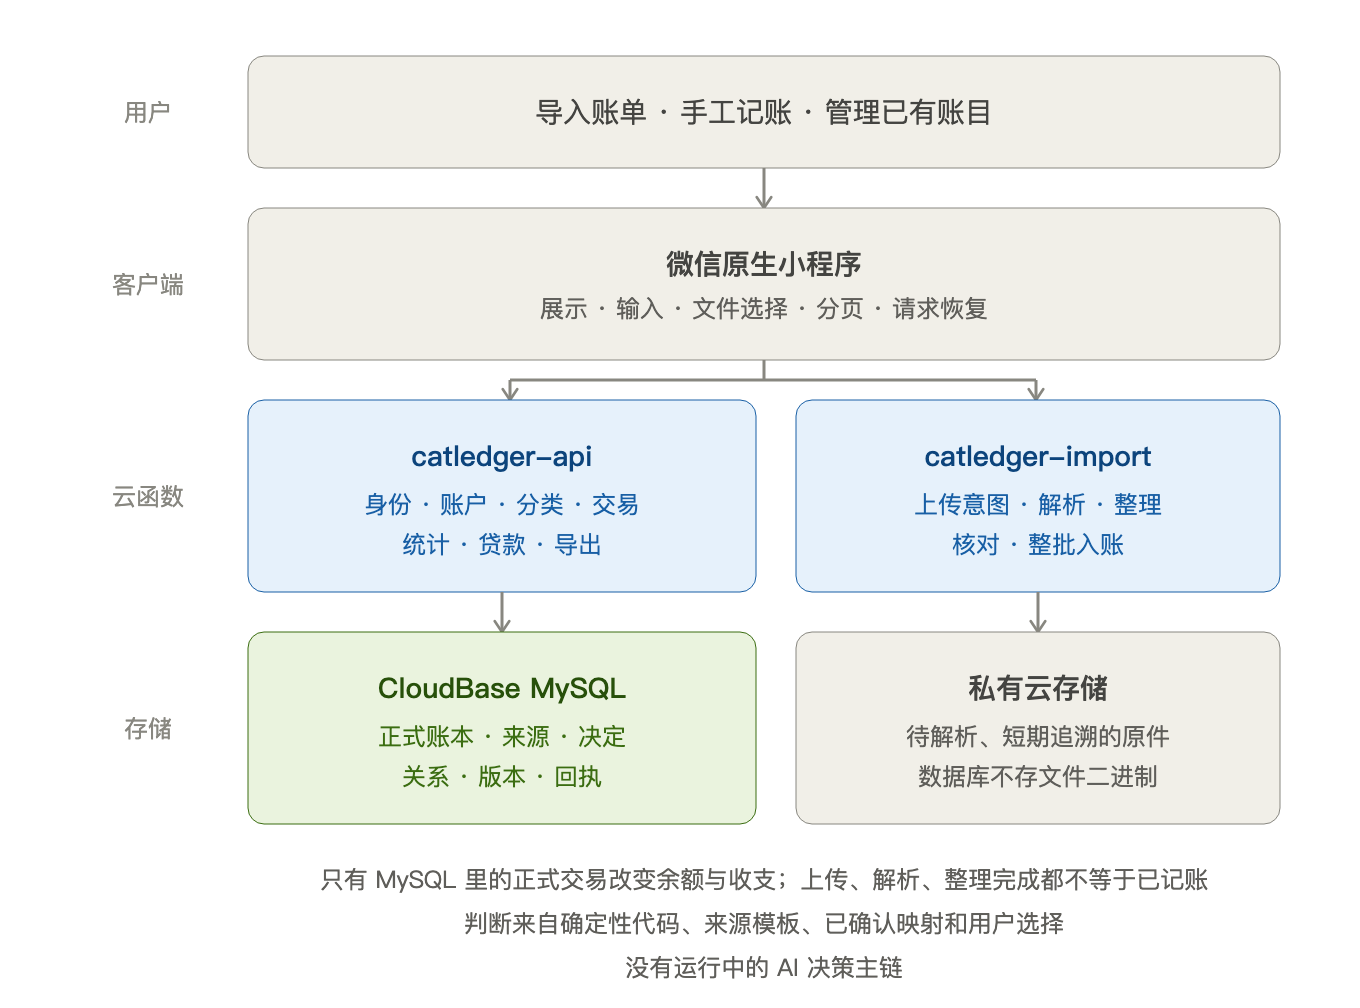
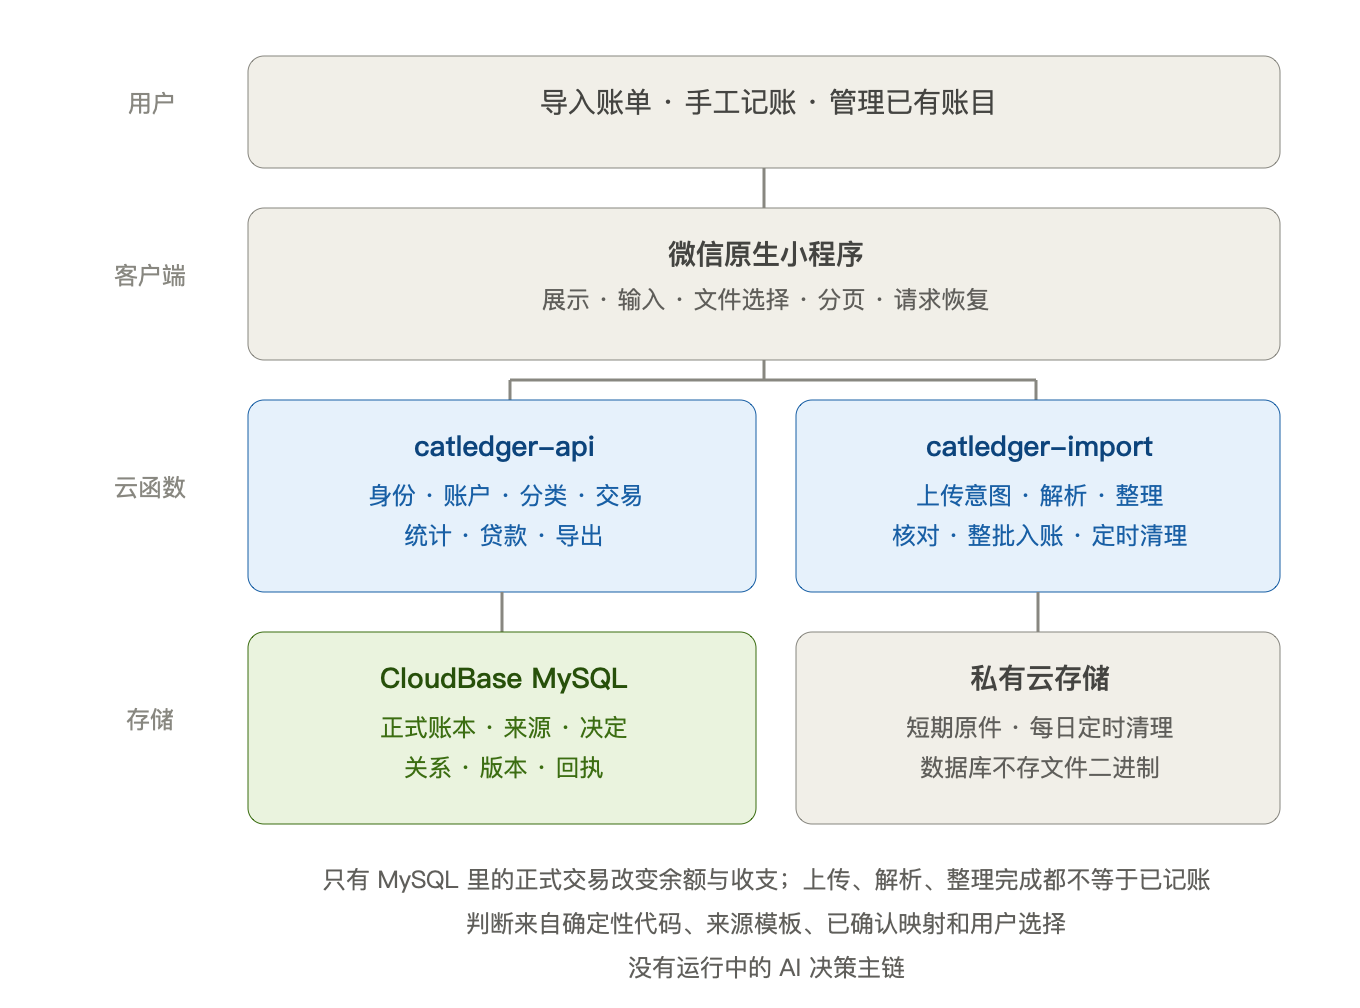
docs: reorder import flow and document file retention

diff --git a/docs/招财猫记账本实施规划.md b/docs/招财猫记账本实施规划.md
@@ -6,7 +6,7 @@
 
 | 任务 | 状态 | 已知事实 | 剩余与边界 |
 | --- | --- | --- | --- |
-| IMPORT-OPT-20261019 导入链路体验与成本优化 | 待验收 | 基于 main `c5e7d201` 开分支 `codex/import-opt-20261019`；P1 已实现分块下载默认最多 4 路并发、已校验块断点续传、单块小快照内联、进度百分比，并保留缺块/乱序/混版本/摘要错误不开放半份草稿的完整门禁。证据：[并行、续传与内联测试](../test/import-local-files.test.js)、[内联预算测试](../test/import-local-objects.test.js)、[主逻辑 3.8](招财猫记账本入账逻辑说明.md#import-transfer)、[优化计划](导入链路体验与成本优化计划.md)；相关 29 项测试通过，完整根套件 1,165 项通过、82 项按环境跳过；P0 合成下载基准见[脚本](../scripts/benchmark-local-download.js) | P0 已补客户端导入诊断（上传/解析/整理/首屏阶段与下载 manifest/chunk/decode、调用数、复用数、内联）和 600/3,000 行合成基准，诊断模块见[import-performance.js](../miniprogram/services/import-performance.js)；快照请求/就绪与下载开始/完成已拆分。真机/弱网和云端容量待验收。P2 当前用户有界清扫已实现（等待上传 1 天、失败/待映射 30 天、已解析未入账 7 天、已入账/重复/丢弃尽快删），[隔离 MySQL 用例](../test/import-file-retention-db.test.js)及 26 项导入数据库回归通过；全局每日 03:00 清理入口和触发器配置已准备（单次最多 20 个），尚未部署创建触发器。P3 快速入账、P5 快照传输未开始。本轮未迁移、未部署、未上传小程序；分支成果待验收 |
+| IMPORT-OPT-20261019 导入链路体验与成本优化 | 待验收 | 基于 main `c5e7d201` 开分支 `codex/import-opt-20261019`；P1 已实现分块下载默认最多 4 路并发、已校验块断点续传、单块小快照内联、进度百分比，并保留缺块/乱序/混版本/摘要错误不开放半份草稿的完整门禁。证据：[并行、续传与内联测试](../test/import-local-files.test.js)、[内联预算测试](../test/import-local-objects.test.js)、[主逻辑 3.4](招财猫记账本入账逻辑说明.md#import-transfer)、[优化计划](导入链路体验与成本优化计划.md)；相关 29 项测试通过，完整根套件 1,165 项通过、82 项按环境跳过；P0 合成下载基准见[脚本](../scripts/benchmark-local-download.js) | P0 已补客户端导入诊断（上传/解析/整理/首屏阶段与下载 manifest/chunk/decode、调用数、复用数、内联）和 600/3,000 行合成基准，诊断模块见[import-performance.js](../miniprogram/services/import-performance.js)；快照请求/就绪与下载开始/完成已拆分。真机/弱网和云端容量待验收。P2 当前用户有界清扫已实现（等待上传 1 天、失败/待映射 30 天、已解析未入账 7 天、已入账/重复/丢弃尽快删），[隔离 MySQL 用例](../test/import-file-retention-db.test.js)及 26 项导入数据库回归通过；全局每日 03:00 清理入口和触发器配置已准备（单次最多 20 个），尚未部署创建触发器；行为见[原件清理 3.9](招财猫记账本入账逻辑说明.md#import-retention)。P3 快速入账、P5 快照传输未开始。本轮未迁移、未部署、未上传小程序；分支成果待验收 |
 | IMPORT-20261017 完整草稿下发与本地核对 | 待验收 | 完整快照、本地决定与文件恢复、原请求保护及单事务入账已集成；追加成功事务清理和新请求回归，完整数据库2,136项、3,000行实测与授权临时预览通过，finance编译后1.17MiB。追加授权后0034、最小权限及双函数已部署，实际工程原三来源批次已恢复为本地核对；本轮全部提交已按用户授权纳入main，证据见本节 | 实际目录已切回main；原实现分支、未提交的文档改动与`backup-docs/`保留。真机、弱网、云端容量及真实入账待验收，精确提交CI以提交检查为准 |
 | INSTALLMENT-20261016 分期卡片按计划分组与利息归属 | 待验收 | 能确定归属的本息在已核对按计划合卡；归属不明时整组本息进待核对，本金卡为入口，未归属利息挂在候选计划卡内。归属与分组由服务端确定。已修复数据库 JSON 类型误判、历史事项键阻止恢复、事项修复未更新批次版本，证据见本节 | 本次专项与隔离 MySQL 验证通过；性质解析、各页签卡头与交易行已收敛到共用入口；普通与分期已核对卡按同一列表渲染，计划名保留在交易标题。用户追加授权后，catledger-import 已于2026-10-16部署并完成代码及配置回读核验，相关实现已随`d1b40e96`提交并推送main；真实批次由用户自行操作验收，本轮无真实批次写入测试 |
 | MINI-20261012 财务分包与界面收敛 | 待验收 | 财务相关10页迁入`packages/finance`，共享贷款展示模型留在主包；语义色与间距变量、净资产卡样式一并纳入main。合并前修正遗漏的贷款选择跳转，并同步脚本、测试与现行文档入口；证据见本节 | 本地回归与实际工程预览通过；完整数据库CI按最终提交核验。手机、弱网与真实保存仍待验收；本轮无后端运行代码、迁移或部署变化 |

diff --git a/docs/招财猫记账本架构设计.md b/docs/招财猫记账本架构设计.md
@@ -68,6 +68,7 @@ miniprogram（微信原生 UI 与客户端服务）
 | --- | --- | --- |
 | 账单显示名称 | [原位名称编辑](../miniprogram/packages/finance/pages/import-workbench/file-rename.js)共用上传与来源列表；来源通过 importId 读取文件版本，保存后只读刷新摘要和视图缓存。[导入服务](../cloudfunctions/catledger-import/src/import-service.js)与`0033`独立保存别名，来源读取关联显示，命令回执恢复 | 覆盖原文件名、原始证据或改写交易；为来源改名重新解析／整理或伪造本机上传文件 |
 | 文件容器和来源模板 | [parsers](../cloudfunctions/catledger-import/src/parsers)、[profiles](../cloudfunctions/catledger-import/src/profiles) | 直接写正式交易 |
+| 原件保留与后台清理 | [导入服务](../cloudfunctions/catledger-import/src/import-service.js)、[保留策略](../cloudfunctions/catledger-import/src/import-file-retention.js)、[Timer 入口](../cloudfunctions/catledger-import/src/maintenance.js)；每日 03:00（北京时间）全局有界清理，新导入时当前用户清扫 | 删除数据库原文/来源/回执，或让客户端伪造 Timer 触发跨用户清理 |
 | 平台语义 | [row-semantic-resolver](../cloudfunctions/catledger-import/src/row-semantic-resolver.js) | 由通用事件层再次解释平台文本 |
 | 自动分类及历史记忆 | [category-rules](../cloudfunctions/catledger-import/src/category-rules.js)产出有依据的用途分类；[category-mapping](../cloudfunctions/catledger-import/src/category-mapping.js)结合用户目录及记忆裁决；两部署包的`category-memory`保持相同摘要契约 | 分类规则改变资金性质、读取重写旧账或跨用户套用目录 |
 | 来源身份、强弱关系 | [evidence-matching](../cloudfunctions/catledger-import/src/evidence-matching.js)、[relation-resolver](../cloudfunctions/catledger-import/src/relation-resolver.js) | 仅靠相似自动合并 |

diff --git a/docs/开发与验证.md b/docs/开发与验证.md
@@ -364,6 +364,11 @@ node --max-old-space-size=256 scripts/benchmark-local-review.js --pairs 1000
 CATLEDGER_BENCHMARK_HEAP_MB=384 node --max-old-space-size=384 scripts/benchmark-local-review.js 24990
 # 3,000行整批入账对照，同样包含所有行的最终字段编辑。
 CATLEDGER_BENCHMARK_HEAP_MB=384 node --max-old-space-size=384 scripts/benchmark-local-review.js 3000
+# 客户端下载阶段与断点续传合成观测（8ms/块模拟 RTT，不是手机结论）。
+node scripts/benchmark-local-download.js 3000 8
+node --test test/import-performance.test.js test/import-maintenance.test.js test/import-file-retention.test.js
+# 原件保留的用户/全局清理；先配置隔离 MySQL。
+node --test --test-concurrency=1 test/import-file-retention-db.test.js
 ```
 
 容量脚本使用5份合成来源，贯穿真实解析、初步整理、完整快照、分块校验、文件落盘、独立进程冷恢复、每笔最终编辑及一次整批入账。下载解码与核对分别运行在独立客户端进程，通过测试进程通道调用真实后端处理者，避免将客户端对象计入服务端峰值；该通道仅用于本机测量。记录运行时与堆限制、各阶段时间、用户锁、SQL数、JSON实际请求/响应体积、快照/决定/磁盘体积、编辑P95、堆与峰值RSS；最终核对交易数量、金额、该用户临时对象和分块归零，以及原回执重放。配对模式另外记录确认全部配对的时间；10,000候选上限、分页和占用重算由数据库边界用例验证。约束来自共享契约，不能通过放宽限制、缩小原支持范围、跳过原文或分批入账通过。内存指标区分JS堆、进程RSS和设备实际限制；本机文件系统代替微信文件系统的结果不等于物理手机能力。

diff --git a/docs/现行说明/数据生命周期.md b/docs/现行说明/数据生命周期.md
@@ -6,7 +6,7 @@
 
 | 数据 | 保存用途 | 清理边界 |
 | --- | --- | --- |
-| 私有云文件原件 | 上传、解析重试及短期追溯 | 按状态分级：等待上传 1 天、失败/待映射 30 天、已解析未入账 7 天、已入账/重复/丢弃尽快删；新导入时当前用户有界清扫；全局每日 03:00 定时入口/配置已准备，尚未部署触发器 |
+| 私有云文件原件 | 上传、解析重试及短期追溯 | 按状态分级：等待上传 1 天、失败/待映射 30 天、已解析未入账 7 天、已入账/重复/丢弃尽快删；新导入时当前用户有界清扫；全局每日 03:00（北京时间）定时入口/配置已准备，尚未部署触发器 |
 | 原始行、来源身份、事件与决定关系 | 可追溯、防重和审计 | 不因清理原件或删除某笔交易一并抹除 |
 | 本地核对的服务端快照、决定与补充对象 | 分块传输、未入账恢复和最终复核 | 成功入账时同事务删除该批次全部代次及分块；废弃沿派生回收，原来源证据及回执保留 |
 | 正式交易 | 余额、收支和历史账目 | 用户主动删除普通账目为受保护的物理删除；系统更正、替换、撤销仍保留原软删除历史 |

diff --git a/docs/导入链路体验与成本优化计划.md b/docs/导入链路体验与成本优化计划.md
@@ -247,7 +247,7 @@ Storage-days ≈ 未入账原件数 × 文件大小 × 保留天数
 - 清理幂等、有界，日志只留数量/结果码，不记录文件名或路径。
 - 不做破坏性回溯：不批量删数据库原文、审计、回执或正式账目。
 
-**定时入口已实现，尚未部署**：`catledger-import` 识别无微信身份的 Timer 事件并调用全局清理，单次最多 20 个；`cloudbaserc.json` 已配置每日 03:00 的 `cleanup-expired-import-files` 触发器。当前线上仍只在用户开始新导入时清扫，长期不活跃用户的过期对象不会被主动回收；创建触发器需另行授权。
+**定时入口已实现，尚未部署**：`catledger-import` 识别无微信身份的 Timer 事件并调用全局清理，单次最多 20 个；`cloudbaserc.json` 已配置每日 03:00（北京时间）的 `cleanup-expired-import-files` 触发器。当前线上仍只在用户开始新导入时清扫，长期不活跃用户的过期对象不会被主动回收；创建触发器需另行授权。
 
 ### 6.3 本机是否保存原件
 
